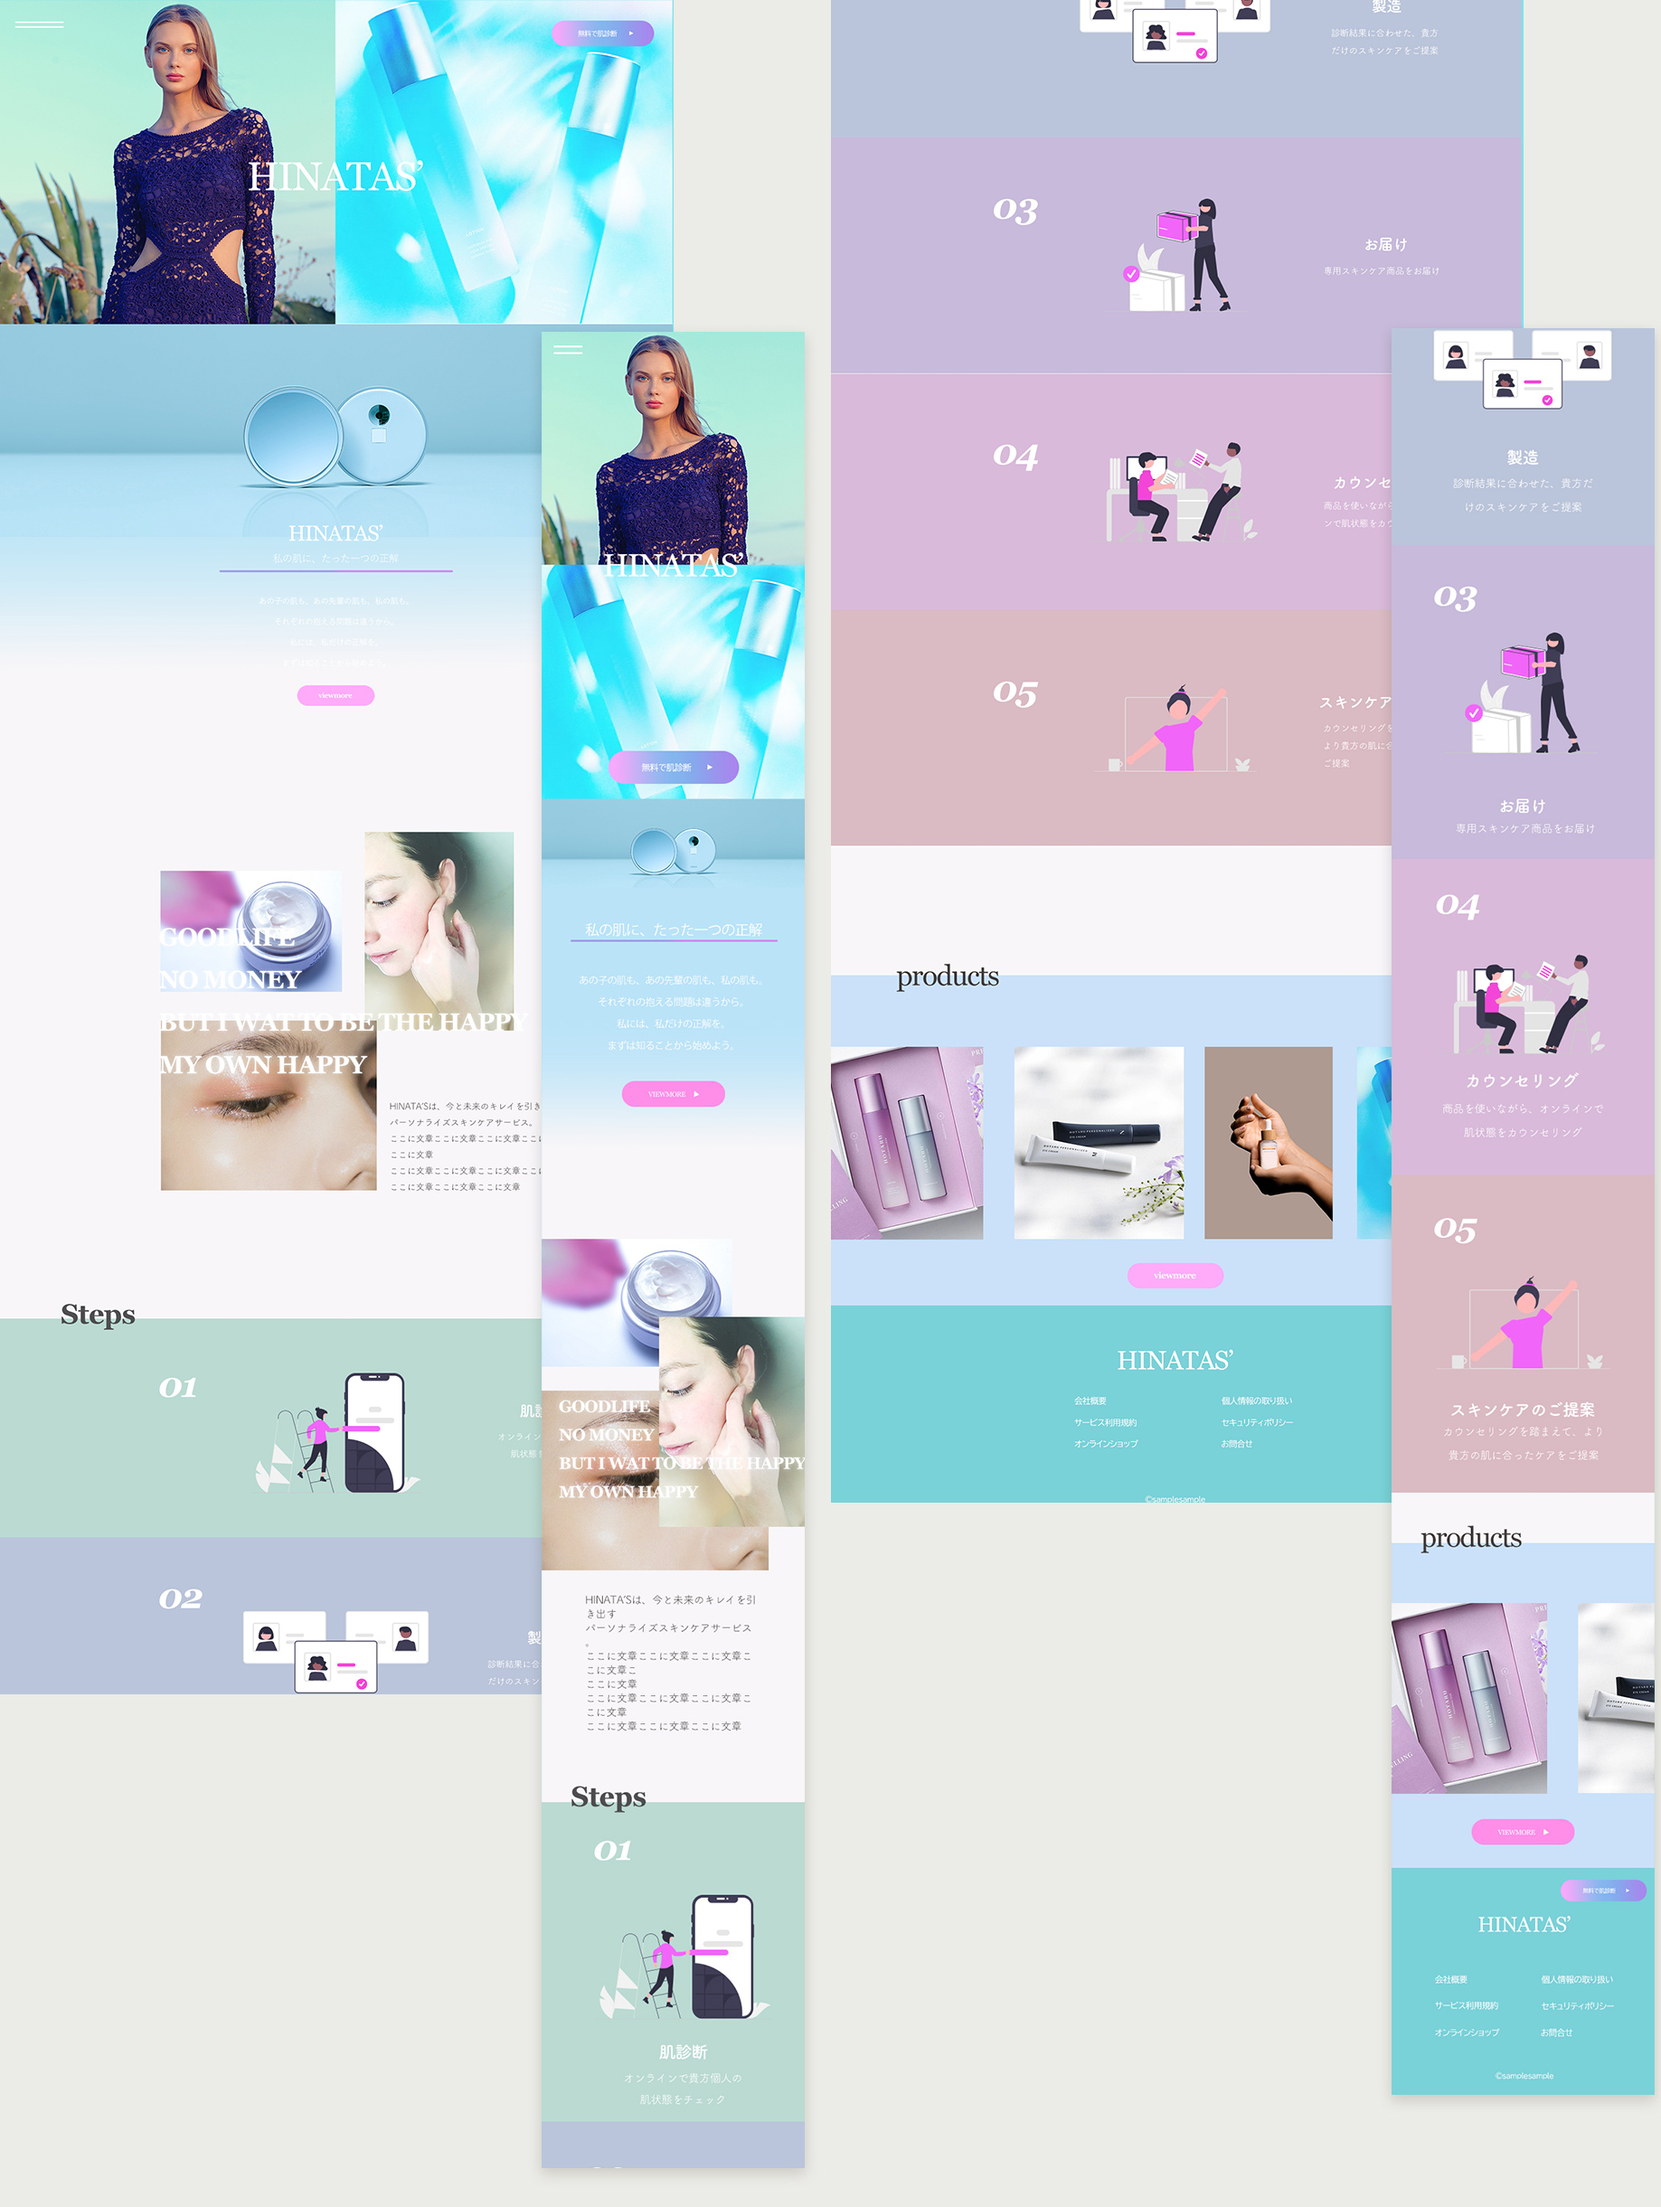
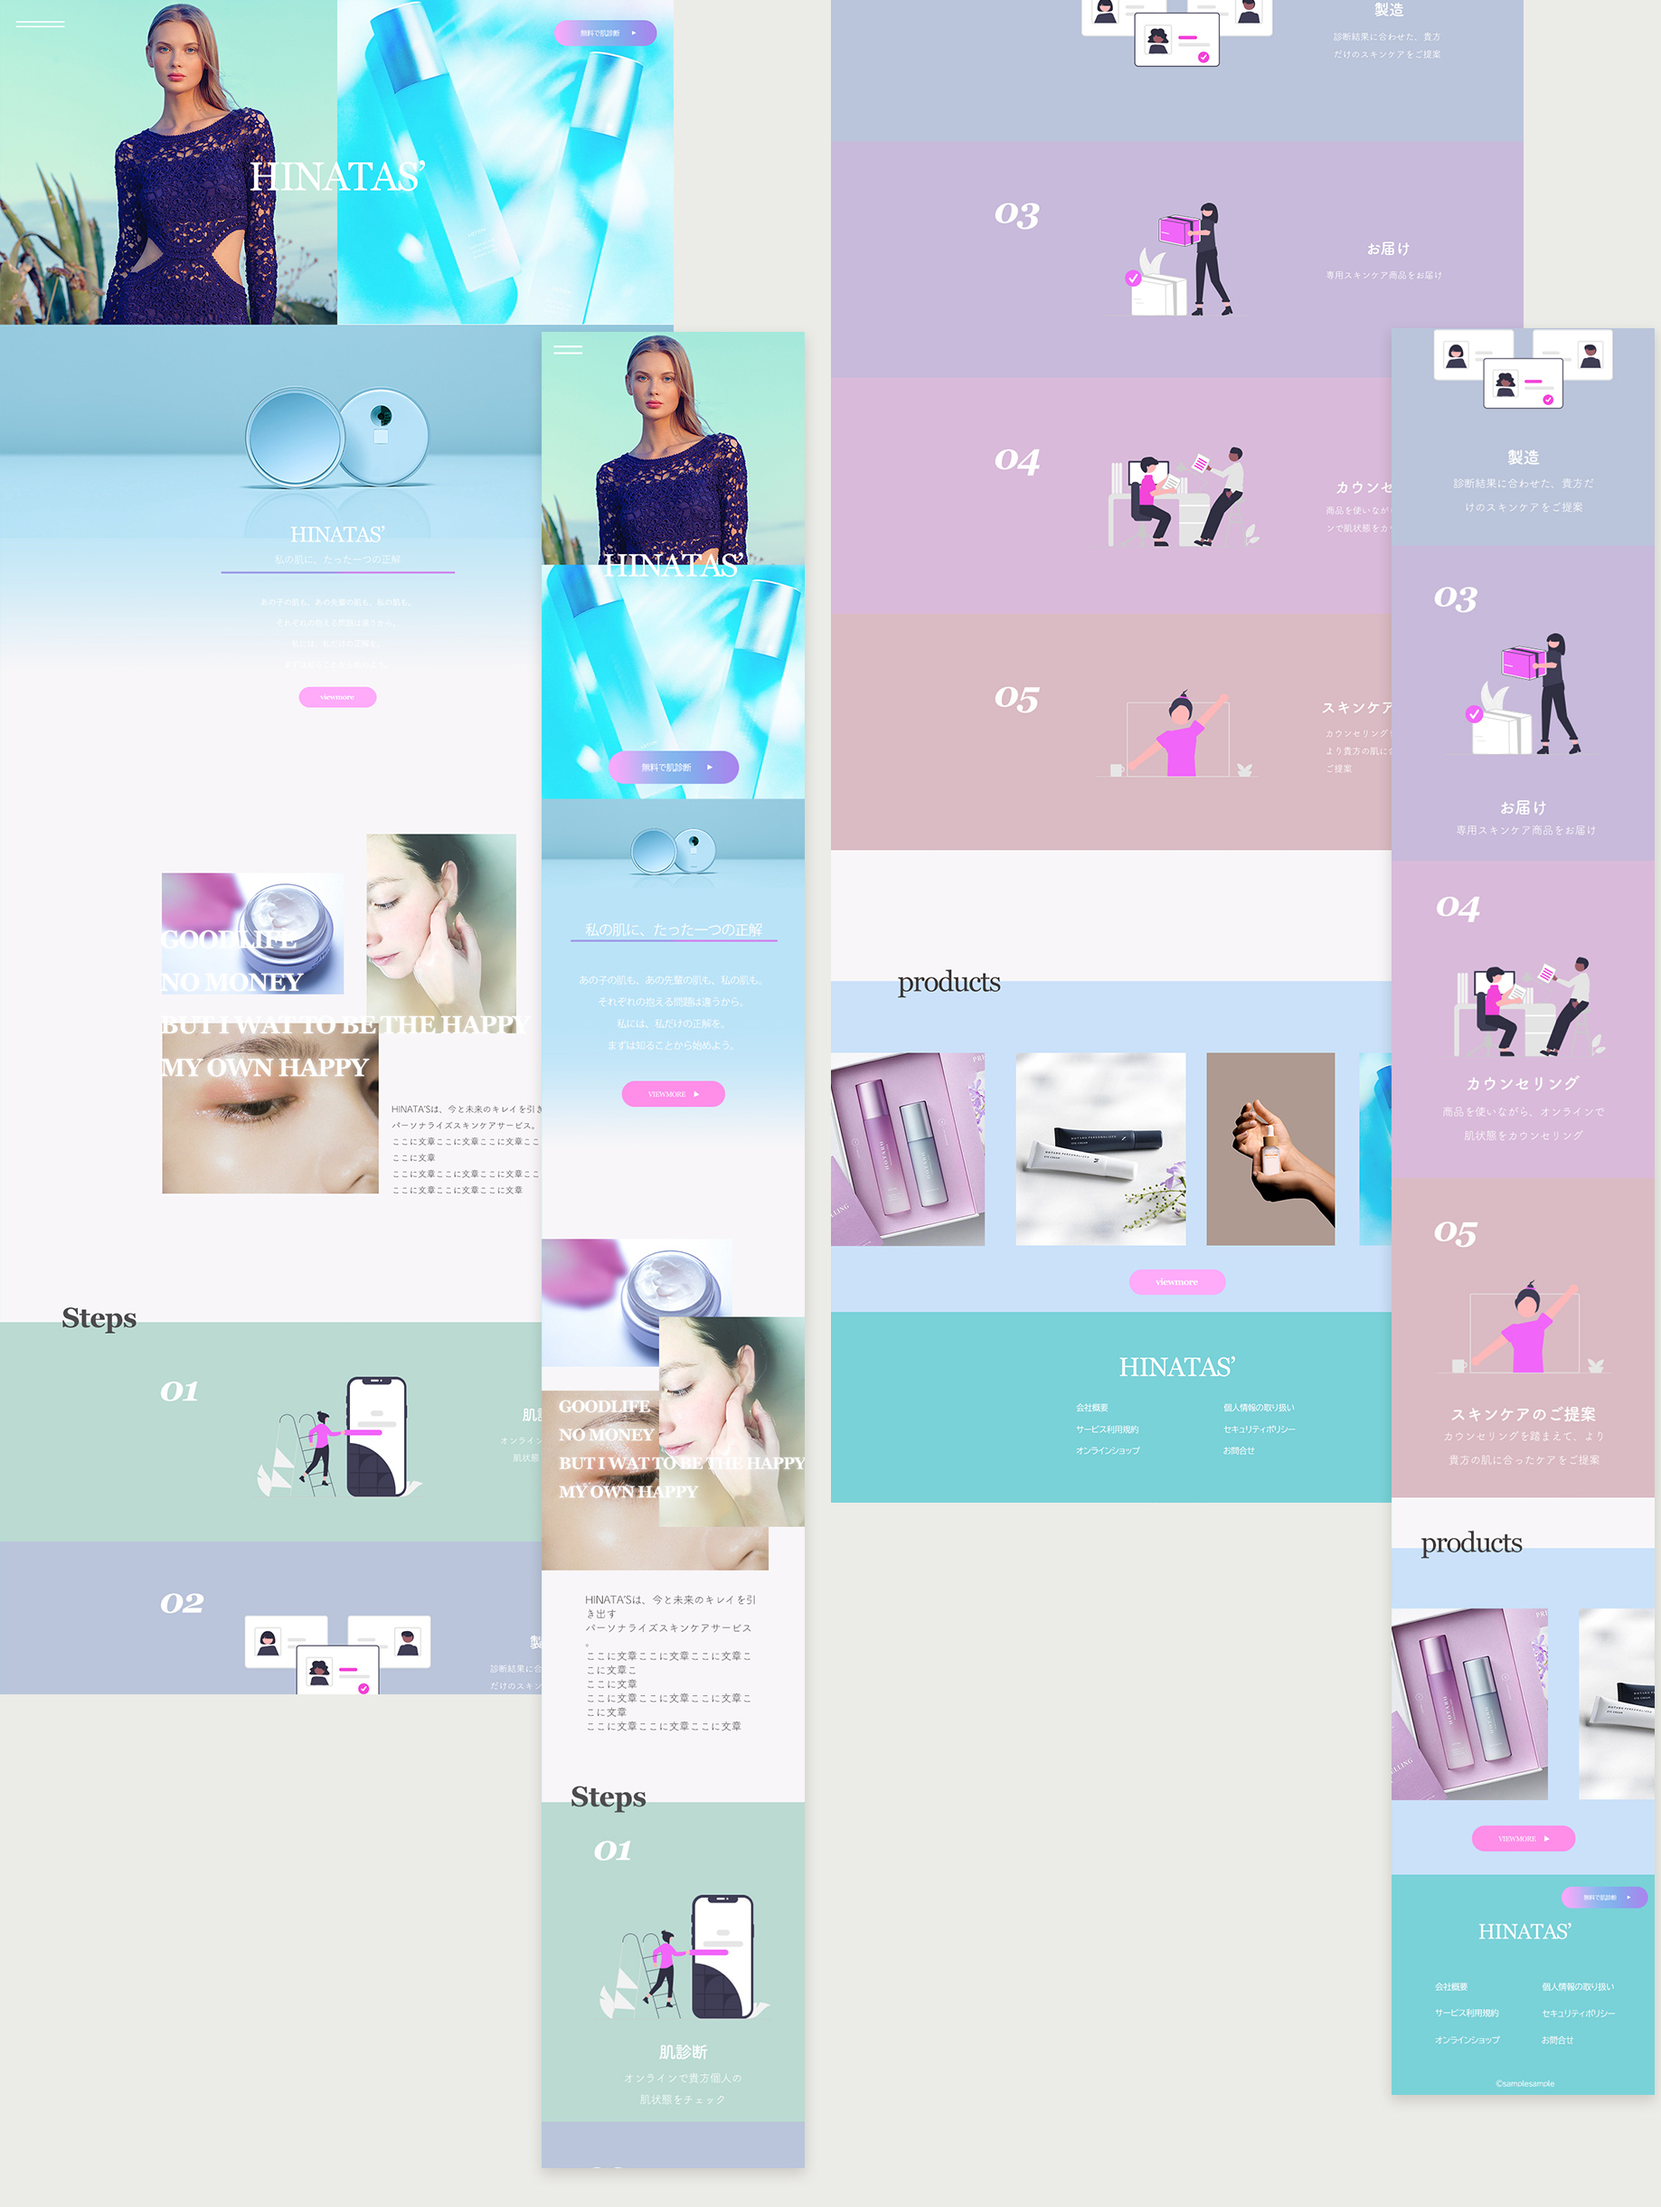
hjj

diff --git a/skin/index.html b/skin/index.html
@@ -48,28 +48,26 @@
         <!---------- Skills ---------->
         <div id="skills wrapper">
             <div class="skills-p">
-                <h1 class="TextRandomAnime">Special Feature </h1>
-                <h2>自社新店舗の特集ページデザイン・設計</h2>
+                <h1 class="TextRandomAnime">skin care site</h1>
+                <h2>スキンケアのランディングページのtopページデザイン</h2>
                 <div class="parent">
                     <div class="child">
-                        <p class="child_p"><b>概要</b><br>自社の運営店舗「＆kitchen」の特集ページのデザイン、編集を担当。<br><br><a
-                                href="https://www.rakuten.ne.jp/gold/andkitchen/"
-                                target="_blank">https://www.rakuten.ne.jp/gold/andkitchen/</a>
+                        <p class="child_p"><b>概要</b><br>クラウドワークスの依頼を元にランディングページデザインを制作しました。<br><br>
                         </p>
                     </div>
                     <div class="child">
                         <p class="child_p"><b>制作期間</b><br>
-                            2週間程度<br>
+                            5日程度<br>
                             <b>制作環境</b><br>
                             Photoshop<br>
                             <b>担当した箇所</b><br>
-                            特集サムネイル画像の制作、ページ内デザイン、ページ内の文章制作、新商品追加など編集業務<br>
+                            topページのデザイン<br>
                         </p>
                     </div>
                 </div>
             </div>
             <div class="skills-img">
-                <img src="imgs/landhig_02-2.jpg">
+                <img src="imgs/landhig_03.jpg">
             </div>
         </div>
 
@@ -79,25 +77,24 @@
             <div class="works__innner ">
                 <figure class="works__fig">
                     <img src="imgs/gole.png" alt="" width="50%">
-                    <p><b>目的</b><br>カテゴリーごとにキッチン雑貨を集めた特集ページを制作し、自社ページ内でお客様にいろいろな商品を見比べていただけるようにする。
+                    <p><b>目的</b><br>自分に合ったスキンケア方法を知っていただき、自社で製造している化粧品からお客様ひとりひとりにあったアイテムをご提供する。
                     </p>
                 </figure>
 
                 <figure class="works__fig">
                     <img src="imgs/shop.png" alt="" width="50%">
-                    <p><b>コンセプト</b><br>同系統の商品を一覧で見比べることができるページ。</p>
+                    <p><b>コンセプト</b><br>画像、ページ内の色彩を特に意識し、透明感のあるナチュラルな雰囲気のページ</p>
                 </figure>
 
                 <figure class="works__fig">
                     <img src="imgs/woman.png" alt="" width="50%">
-                    <p><b>ペルソナ</b><br>40歳女性<br>
-                        会社勤め/夫、子供と三人暮らし
-                        新しく引っ越しをするに際して、キッチン、バスルーム、リビングルームの雑貨を新調したい。
+                    <p><b>ペルソナ</b><br>27歳女性/会社勤め/ひとり暮らし<br>
+                        忙しく、ゆっくりと化粧品を比較している時間が無いが、年齢とともに変わってきた自分の肌にあったスキンケア商品が欲しい。
                     </p>
                 </figure>
 
-                <p>自社で運営している楽天内のショップである「＆kitchen」の「FEATURE(特集ページ)」のデザイン、設計を担当。<br>「キッチンからはじめる快適なくらし」、「種類豊富な保存容器 」、「ゴミ箱にもこだわりを」などをはじめ、季節ごとに「梅雨特集」「加湿器特集」など快適な生活を支える雑貨を紹介し、お客様に自分に合ったアイテムを見比べて発見していただけるようなわかりやすいページを目指しました。
-                    </p>
+                <p>クラウドワークスにて実際に依頼されている内容を元に、架空のHPのデザインを制作いたしました。クライアントが参考ページとして提示しているサイトを参考に内容を整えつつ、販売する化粧品のブランドの透明感のあるイメージを前面に感じられるような配色、実装した際の画像の動きなどを考えながら制作いたしました。
+                </p>
             </div><!-- works__innner -->
         </div><!-- works -->
 

diff --git a/skin/css/style.css b/skin/css/style.css
@@ -214,7 +214,7 @@ h3 {
     width: 100%;
     margin: 0 auto 100px auto;
     height: 100vh; /* 空の要素なので、高さの定義が必要です。 */
-    background-image: url("../../img/top_01.jpg");
+    background-image: url("../../img/top_03.jpg");
     background-size: cover;
 }
 
